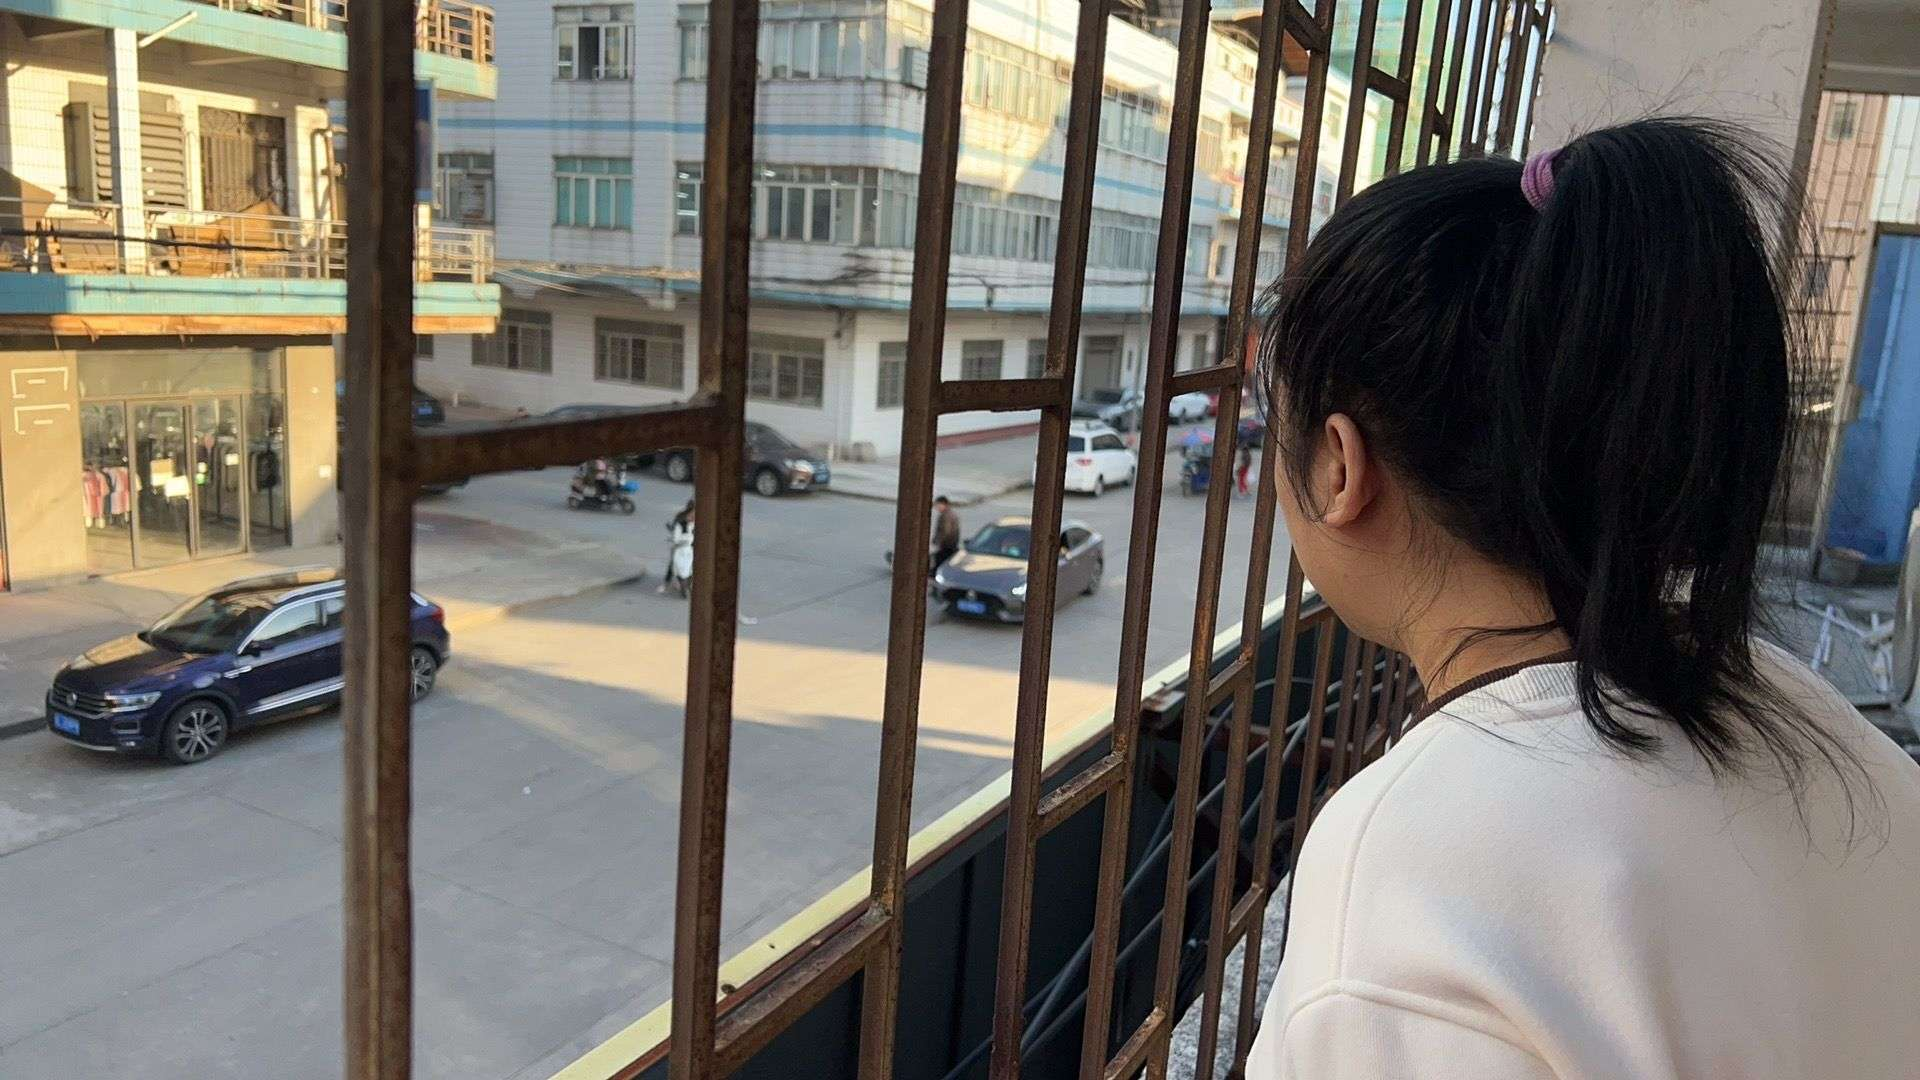
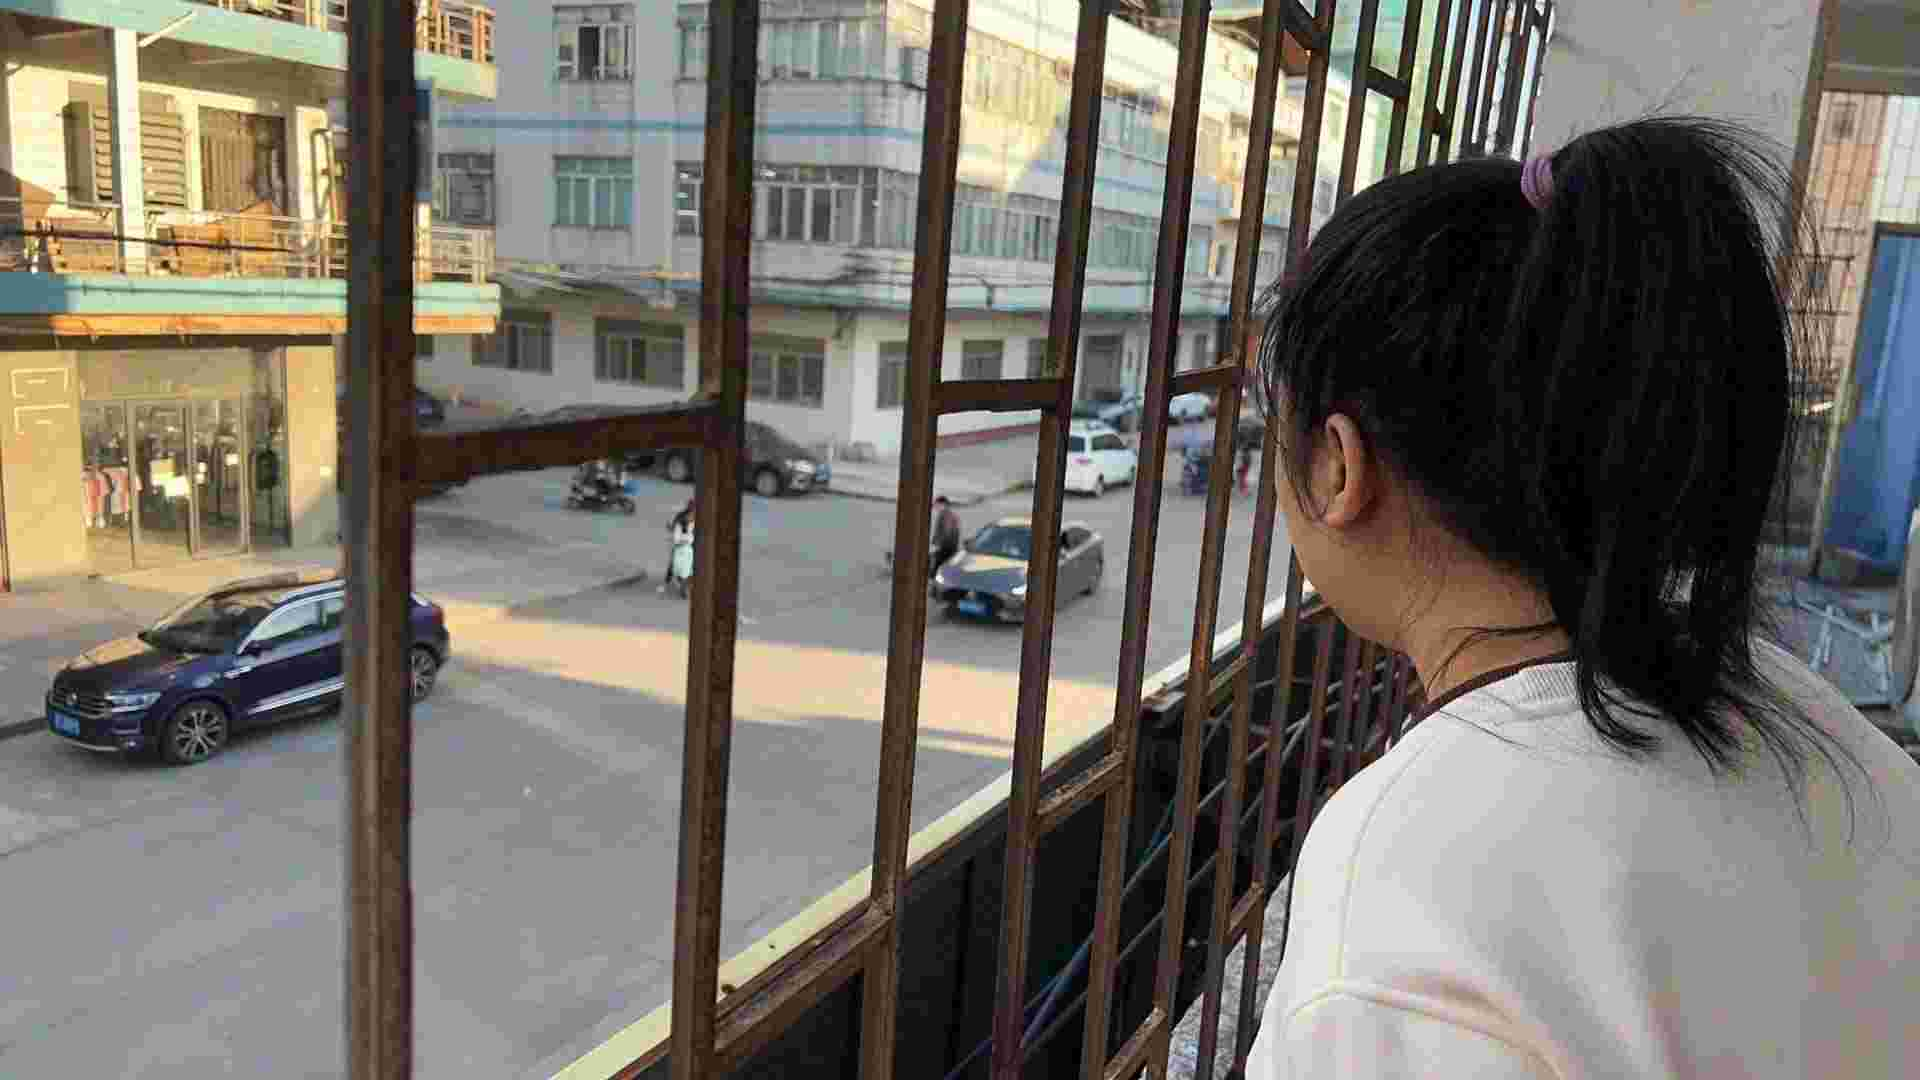
更新图片清晰度 取消自动轮播

diff --git a/docs/components/SwiperZoom.vue b/docs/components/SwiperZoom.vue
@@ -1,11 +1,11 @@
 <template>
+      <!-- :loop="true" -->
   <swiper
     :style="{
       '--swiper-navigation-color': '#fff',
       '--swiper-pagination-color': '#fff',
     }"
     :zoom="true"
-    :loop="true"
     :navigation="true"
     :zoomMax=1
     :pagination="{
@@ -18,13 +18,12 @@
       <div class="swiper-zoom-container">
         <img class="swiper-room-img" 
           :src="imgPath" 
-          loading="lazy" 
           alt="Image" />
       </div>
     </swiper-slide>
   </swiper>
 
-  <details v-show="FabricVideo">
+  <details v-if="FabricVideo">
     <summary>{{ FabricVideo }}</summary>
     <video :src="VideoPath" controls="controls"></video>
   </details>
@@ -73,4 +72,5 @@
       };
     },
   };
+  
 </script>

diff --git a/docs/components/Swiper.vue b/docs/components/Swiper.vue
@@ -1,4 +1,8 @@
 <template>
+      <!-- :autoplay="{
+      delay: 5000,
+      disableOnInteraction: false,
+    }" -->
   <swiper
     :effect="'coverflow'"
     :grabCursor="true"
@@ -7,10 +11,6 @@
     :slidesPerView="'2'"
     :initialSlide="1"
     :loopFillGroupWithBlank="true"
-    :autoplay="{
-      delay: 5000,
-      disableOnInteraction: false,
-    }"
     :coverflowEffect="{
       rotate: 30,
       stretch: 20,

diff --git a/docs/DoWant/solve-problems.md b/docs/DoWant/solve-problems.md
@@ -28,7 +28,7 @@ layout: doc
 
 ::: timeline 2024-11-24
 - 真的有点好笑,今天居然睡不着,昨晚两点多才睡,今天七点多就起来了,我不会猝死了吧?不过能解决问题真的是让人很满足的.可能是因为昨天关于`Swiper`我还不知道如何去使用吧,后面学习了一下,才发现原来是因为我的细节上出现了问题.我明明已经将组件弄好了,想着为什么没有显示,原来是因为我没有将`components`里面的组件导出来,所以一直没有起作用.🤦♂感谢[我的ai老师](https://chatgpt.com/)
-![ai老师帮我解决问题](/else/problems/ai组件.png)
+![ai老师帮我解决问题](/else/problems/ai组件.jpg)
 - 买菜的时候居然忘记了买大蒜!我真的😅.
 ### 在Markdown中使用锚点功能
   ```html
